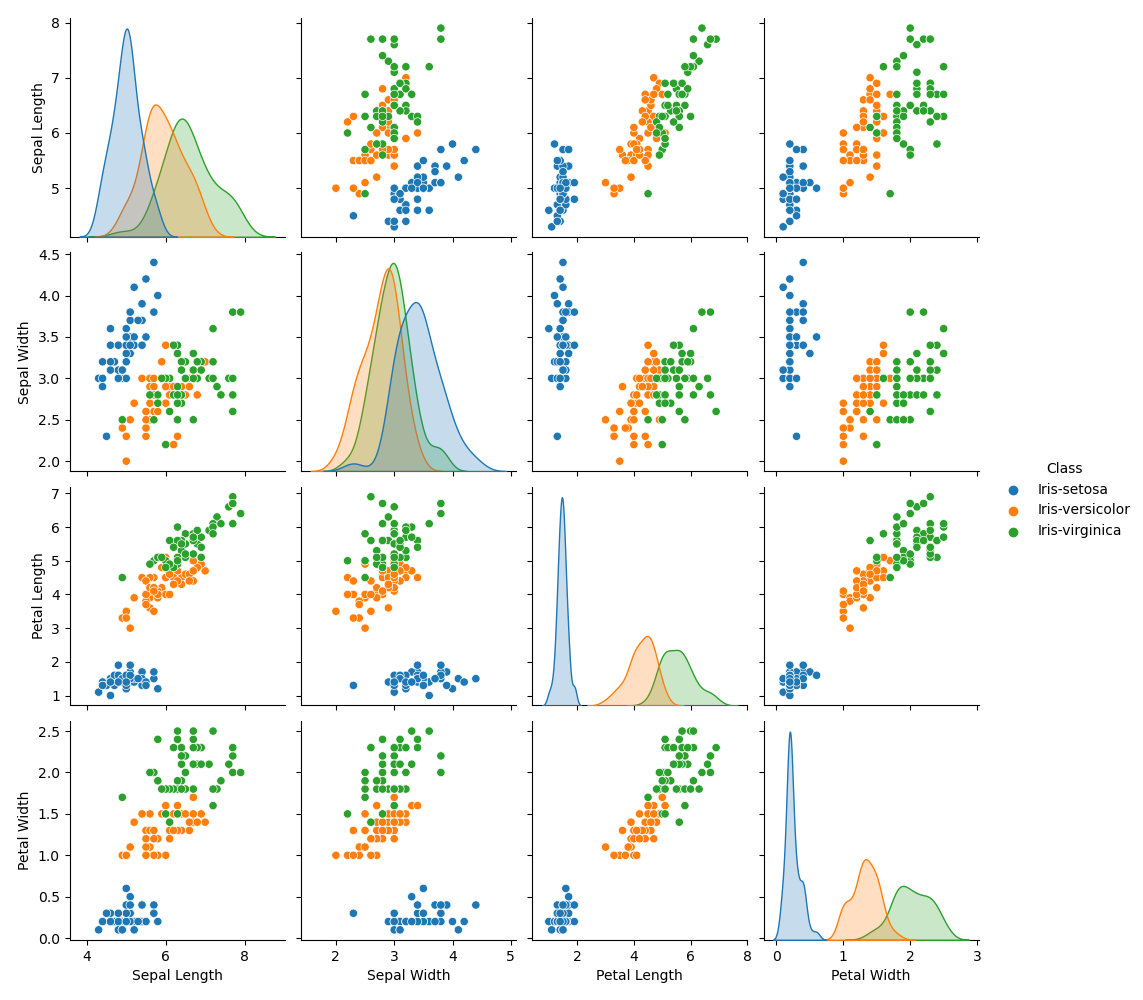
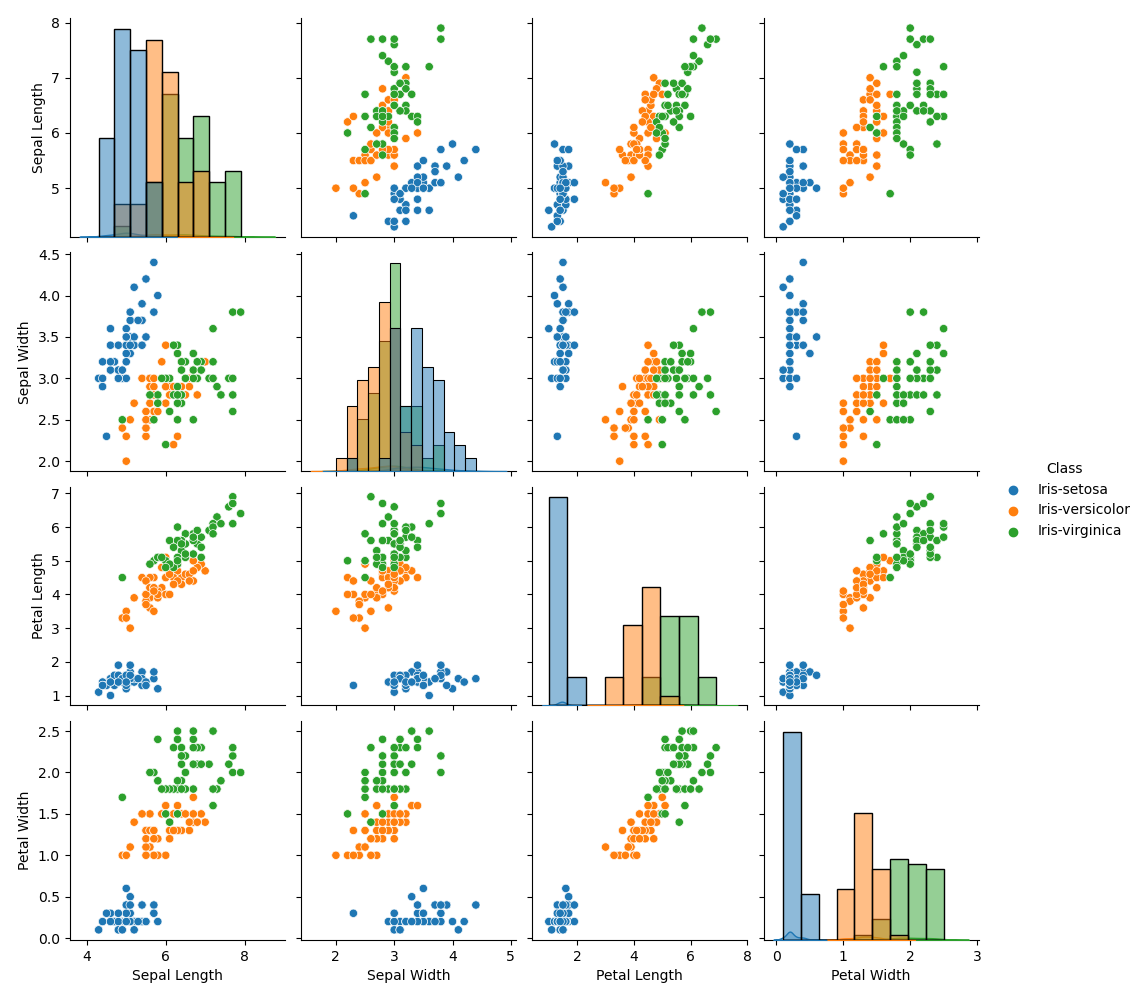
added references

diff --git a/analysis.py b/analysis.py
@@ -172,6 +172,8 @@ plt.show()
 
 # Pairplots comparing each variable to all others. 
 
-sns.pairplot(data, hue ='Class')
+pair = sns.pairplot(data, hue ='Class')
+pair.map_diag(sns.histplot)
+pair.map_offdiag(sns.scatterplot)
 plt.savefig('images/Pairplot.png')
 plt.show

diff --git a/README.md b/README.md
@@ -2,16 +2,19 @@
 
 ## **Table of Contents**
 
-1. Introduction to Dataset
-2. Project Outline
-3. Software Used
-4. Analysis
-    1. Univariate
-    2. Multivariate
+1. [Introduction to Dataset](heading1)
+2. [Project Outline](Head2)
+3. [Software Used](Head3)
+4. [Analysis](Head4)
+    1. [Univariate](Head4.1)
+    2. [Multivariate](Head4.2)
+5. [Results](Head5)
+6. [Technical Information](Head6)
+7. [Conclusion](Head7)
 
 
 
-## **Introduction to Dataset**
+## **Introduction to Dataset** {heading1}
 
 The Fischers Iris dataset was made by famous by statistician Ronald Fischer when he used it in his 1936 paper ["The use of multiple measurements in taxonomic problems"](https://onlinelibrary.wiley.com/doi/10.1111/j.1469-1809.1936.tb02137.x). However, it was actually compiled before this by Edgar Anderson, a botanist who was examining the variation within the Iris flower. 
 
@@ -19,12 +22,8 @@ The 1936 paper was proposing 'Fishers linear discriminant' which today is known 
 
 The dataset is hosted on the [UCI Machine Learning Repository](https://archive.ics.uci.edu/ml/datasets/iris). It consists of 3 classes of iris; 
 
-<img src="https://github.com/Kevin002023/pands-project/blob/main/images/Setosa.jpg" width="250" height="250" title="Iris-setosa">
--Iris-Setosa
-<img src="https://github.com/Kevin002023/pands-project/blob/main/images/Veriscolor.jpg" width="250" height="250" title="Iris-veriscolor">
--Iris-veriscolor
-<img src="https://github.com/Kevin002023/pands-project/blob/main/images/Virginica.jpg" width="250" height="250" title="Iris-virginica">
--Iris-virginica
+<img src="https://github.com/Kevin002023/pands-project/blob/main/images/iris-image.png" width="250" height="250">
+- The image above shows the 3 classes of iris in this data set.
 
 
 It is a multivariate dataset containing information on 150 specimens of iris. There are 5 attributes recorded for each specimen. [These are as follows](https://archive.ics.uci.edu/ml/datasets/iris) :
@@ -40,18 +39,18 @@ It is a multivariate dataset containing information on 150 specimens of iris. Th
 
 Fischer used this information to identify a method of distinguishing between the classes of iris's. It has since been used as a benchmark dataset for machine learning algorithms.
 
-## **Project Outline**
+## **Project Outline** {Head2}
 
 The purpose of the project was to research the Iris dataset, import it to python and write a program called 'analysis.py' that would be used to analyse the dataset. We were to produce plots of this analysis and output the results of any commands to a text file called 'project.txt'.
 
 The purpose of the analysis done by Fisher on this dataset was to see if he could distinguish the class of iris based on the metrics it contains or a combination thereof.  I would like to try and replicate this. 
 
-In order to achieve this, a univariate analysis was carried out, where a singular variable was looked at. This was done by producing plots to show the distribution and variance for Sepal and petal lengths and widths. The [Pandas documnetation](https://pandas.pydata.org/pandas-docs/version/0.13.1/visualization.html#targeting-different-subplots) was a great source of information on generating plots.
+In order to achieve this, a univariate analysis was carried out, where a singular variable was looked at. This was done by producing plots to show the distribution and variance for sepal and petal lengths and widths. The [Pandas documentation](https://pandas.pydata.org/pandas-docs/version/0.13.1/visualization.html#targeting-different-subplots) was a great source of information on generating plots.
 
-After this a multivariate analysis was performed, where the relationship between certain variables was looked at.
+After this a multivariate analysis was performed, where the relationship between certain variables was looked at. This was done using scatter-plots and a pair-plot. 
 
 
-## **Software Used**
+## **Software Used** {Head3}
 
 This project was done using python on Visual Studio Code. It was used to produce both the code and this README.md file.
 
@@ -69,14 +68,14 @@ import seaborn as sns
 
 Pandas allows you to manipulate the dataset as a dataframe. It was used to import the dataset, set up a dataframe, validate the values and then for aggregation and grouping of specific variables. I made extensive use of the Pandas documentation which can be found [here](https://pandas.pydata.org/pandas-docs/stable/getting_started/index.html)
 
-NumPy was used for mathematical operations adn when working with arrays/matrices. Its documentation can be found [here](https://numpy.org/doc/stable/)
+NumPy was used for mathematical operations and when working with arrays/matrices. Its documentation can be found [here](https://numpy.org/doc/stable/)
 
 Matplotlib is an extension of NumPy and was used to present the data in plots. Its documentation is [here](https://matplotlib.org/stable/index.html)
 
 Seaborn was also used in the visualization of the data. It has some extended functionality on Matplotlib when making plots. Seaborn documentation is [here](https://seaborn.pydata.org/)
 
 
-## **Analysis**
+## **Analysis** {Head4}
 
 The dataset was imported using the url and the pandas read_csv() function.  This was done so the code would work even with the dataset unattached to the repository. The dataset is called 'data' in my code hereafter. 
 
@@ -142,13 +141,13 @@ max        7.900000     4.400000      6.900000     2.500000
 The above commands were all added to 'project.txt' using the write() command. However, this command expects any input to be a string, whereas the head(), tail(), info() and describe() functions all generate dataframes. To counteract this they were converted to strings in the write command.  
 
 
-### Univariate Analysis
+### Univariate Analysis {Head4.1}
 
 Univariate Analysis where only one variable is looked at, at a time. This was done for Sepal Length, Sepal Width, Petal Length and Petal Width.
 
 **Histogram**
 
-A Histogram is a visual representation of the distribution of values. The range of values are grouped into a series of intervals called 'bins' and the frequency of each value inside these bins is then plotted on the graph. The number of bins can greatly impact the effectiveness of the histogram. If we have too few, there will be a lack of detail making it difficult to identify any pattern, too many and the distribution will look rough and there will be too much "noise". ["Sturges Rule"](https://www.statology.org/sturges-rule/) is a method of identifying the optimal number of bins to use. 
+A Histogram is a visual representation of the distribution of values. The range of values are grouped into a series of intervals called 'bins' and the frequency of each value inside these bins is then plotted on the graph. The number of bins can greatly impact the effectiveness of the histogram. If we have too few, there will be a lack of detail making it difficult to identify any pattern, too many and the distribution will look rough and there will be too much "noise". There are multiple different ways of calculating the correct number of bins. In this case ["Sturges Rule"](https://www.statology.org/sturges-rule/) was used. 
 
 ``
 Optimal Bins = ⌈log2n + 1⌉
@@ -165,13 +164,13 @@ By creating an array called ``axs``, each variable could have its own subplot on
 
 A ['normal distribution'](https://www.techtarget.com/whatis/definition/normal-distribution#:~:text=What%20is%20normal%20distribution%3F,the%20mean%20of%20the%20distribution.) of values will have a bell curve. 
 
--Sepal length: Has a unimodal distribution (ie, a singular peak). While it isn't strictly symmetrical, it can be considered normal distribution with a slight skew to the right.
+- Sepal length: Has a unimodal distribution (ie, a singular peak). While it isn't strictly symmetrical, it can be considered normal distribution with a slight skew to the right.
 
--Sepal Width: This also has a unimodal distribution and the classical bell shape you would expect from a normal distribution.
+- Sepal Width: This also has a unimodal distribution and the classical bell shape you would expect from a normal distribution.
 
--Petal Length: This has a bimodal (two peaks) distribution and skews towards the right.
+- Petal Length: This has a bimodal (two peaks) distribution and skews towards the right.
 
--Petal Width: Again this has a bimodal distribution and skews to the right. 
+- Petal Width: Again this has a bimodal distribution and skews to the right. 
 
 Histograms were also produced for each variable separated by class. 
 
@@ -181,12 +180,12 @@ A [boxplot](https://pandas.pydata.org/pandas-docs/version/0.25.3/reference/api/p
 
 Again for ease of comparison each variant was a subplot allowing all 4 on the same image. 
 
-![Boxplot](images\Boxplots.png)
+![Boxplot](https://github.com/Kevin002023/pands-project/blob/main/images/Boxplots.png)
 
-For both sepal length and width there is much overlap in the range of values for all 3 classes. It would be very difficult to identity what class an iris belonged to based on either of these two variables. However,; it is immediately noticeable that this is not the case when comparing Petal length and width. While there is an overlap in the values for Iris-versicolor and Iris-virginica, the size of the petals for Iris-setosa are significantly smaller. In addition, Iris-setosa has a much narrower range of values. 
+For both sepal length and width there is much overlap in the range of values for all 3 classes. It would be very difficult to identity what class an iris belonged to based on either of these two variables. However, it is immediately noticeable that this is not the case when comparing Petal length and width. While there is an overlap in the values for Iris-versicolor and Iris-virginica, the size of the petals for Iris-setosa are significantly smaller. In addition, Iris-setosa has a much narrower range of values. 
 
 
-## Mutlivariate Analysis
+## Multivariate Analysis {Head4.2}
 
 Multivariate analysis is where 2 or more variable are examined at once to try and identify a relationship between them. 
 
@@ -206,37 +205,89 @@ Here, it can be seen again a division between Iris-Setosa and the other two clas
 
 ## Pair Plots
 
-A [pair-plot](https://datagy.io/seaborn-pairplot/) is another method of looking at the relationship of two variables. They compare each variable to every other variable. 
+A [pair-plot](https://datagy.io/seaborn-pairplot/) is another method of looking at the relationship of two variables. They compare each variable to every other variable.
 
-!["PairPlot"]()
+![PairPlot](https://github.com/Kevin002023/pands-project/blob/main/images/Pairplot.png)
 
-## Technical Information
+The diagonal line shows the distribution of values in each variable by using a histogram. The other plots all represent one variable plotted with another.  Each point is also coloured based on its classification. 
+
+Using the above scatter-plots and pair plot, we can see that there is a positive linear relationship between petal length and petal width. There is a roughly straight line with a positive slope indicating a positive linear relationship. If there was a straight line with a negative slope it would indicate a negative linear relationship. 
+
+The other variables do not seem to have any linear relationship between each other. It is notable that Iris-setosa shares little overlap between the other two classes. 
+
+## **Conclusion** {Head5}
+
+I can already conclude that it seems that there is no relationship between the sepal length and sepal width and probably petal length and width have the strongest linear relationship.
+
+## **Technical Information** {Head5}
 
 Language
 Python 3.09.13
 
+Modules Used
+- Pandas
+- Matplotlib
+- NumPy
+- Seaborn
 
+Editor
+Visual Studio Code V 1.75.1
 As there will be multiple graphs, I wanted to save them all to same folder "graphs". I did this by using the relative path within the 'fig.savefig' (command)[https://stackoverflow.com/questions/66583370/matplotlib-plot-image-save-path-python-vs-code]
 
-Boxplots
-https://pythonbasics.org/seaborn-boxplot/
-https://proclusacademy.com/blog/quicktip/boxplot-separate-yaxis/
 
-Making the labels bold = https://www.includehelp.com/python/bold-text-label-in-plot.aspx#:~:text=The%20command%20fontweight%3D'bold,or%20label%20in%20figure%20bold.
+## **References** {Head6}
 
 
-Multivariate analysis = looks at a number for different variables and the relationship between them.
-- scatter pltos
+- “Pandas documentation — pandas 2.0.1 documentation,” Pydata.org. [Online]. Available: https://pandas.pydata.org/pandas-docs/stable/index.html. 
 
-ScatterPlot
+- “NumPy documentation — NumPy v1.24 manual,” Numpy.org. [Online]. Available: https://numpy.org/doc/stable/.
 
-I wanted to create a scatterplot of "Sepal Length" vs "Sepal Width", distinguishing the classes by colour and then to the same for "Petal Length vs Petal Width". I founds this (website)[https://datagy.io/pandas-scatter-plot/] a great resourse for this. 
+- “Matplotlib documentation — Matplotlib 3.7.1 documentation,” Matplotlib.org. [Online]. Available: https://matplotlib.org/stable/index.html. 
 
-In order to distinguish the Class by colour I created 3 different Dataframes, one for each class, assigned them a unique colour and then plotted them on the same scatterplot graph. 
+- “Seaborn: Statistical data visualization — seaborn 0.12.2 documentation,” Pydata.org. [Online]. Available: https://seaborn.pydata.org/. 
 
+- Sauravdeb, “Introduction to Machine learning: Iris dataset,” Medium, 02-Oct-2021. [Online]. Available: https://medium.com/@sauravdeb98/introduction-to-machine-learning-iris-dataset-58f2f30f966e. 
 
-###Results
+- “Statistical analysis on IRIS dataset,” Kaggle.com, 22-May-2022. [Online]. Available: https://www.kaggle.com/code/neha99/statistical-analysis-on-iris-dataset. 
 
-The 
+- “Iris-data-analysis.knit,” Amazonaws.com. [Online]. Available: https://rstudio-pubs-static.s3.amazonaws.com/848706_1fdca2c961d54f1e9909fe64e127095a.html.
 
-I can already conclude that it seems that there is no relationship between the sepal length and sepal width and probably petal length and width have the strongest linear relationship.
+- “Extended syntax,” Markdownguide.org. [Online]. Available: https://www.markdownguide.org/extended-syntax/.
+
+- “User guide and tutorial — seaborn 0.12.2 documentation,” Pydata.org. [Online]. Available: https://seaborn.pydata.org/tutorial.html. 
+
+- “Matplotlib tutorial,” W3schools.com. [Online]. Available: https://www.w3schools.com/python/matplotlib_intro.asp.
+
+- Nik, “Creating Pair Plots in Seaborn with sns pairplot,” datagy, 11-Jul-2022. [Online]. Available: https://datagy.io/seaborn-pairplot/. 
+
+- “How to add header row to a Pandas Dataframe?,” GeeksforGeeks, 25-Dec-2020. [Online]. Available: https://www.geeksforgeeks.org/how-to-add-header-row-to-a-pandas-dataframe/. 
+
+- “Plotting with matplotlib — pandas 0.13.1 documentation,” Pydata.org. [Online]. Available: https://pandas.pydata.org/pandas-docs/version/0.13.1/visualization.html.
+
+- “How to plot multiple dataframes in subplots,” Stack Overflow. [Online]. Available: https://stackoverflow.com/questions/22483588/how-to-plot-multiple-dataframes-in-subplots.
+
+- M. Pradhan, “Exploratory Data Analysis on Iris Dataset,” Tutorialspoint.com. [Online]. Available: https://www.tutorialspoint.com/exploratory-data-analysis-on-iris-dataset. 
+
+- “Matplotlib plot image save path python VS Code,” Stack Overflow. [Online]. Available: https://stackoverflow.com/questions/66583370/matplotlib-plot-image-save-path-python-vs-code. 
+
+- “Seaborn boxplot,” Pythonbasics.org. [Online]. Available: https://pythonbasics.org/seaborn-boxplot/.
+
+- Y. Singh, “Boxplot with separate Y-axis for each column,” Proclus Academy. [Online]. Available: https://proclusacademy.com/blog/quicktip/boxplot-separate-yaxis/. 
+
+- “Bold Text Label in Python Plot,” Includehelp.com. [Online]. Available: https://www.includehelp.com/python/bold-text-label-in-plot.aspx. 
+
+- [Online]. Available: http://ttps://datagy.io/pandas-scatter-plot/. 
+
+- Zach, “What is Sturges’ Rule? (definition & example),” Statology, 11-Jan-2021. [Online]. Available: https://www.statology.org/sturges-rule/.
+
+- Zach, “Seaborn: How to Use hue Parameter in Pairplot,” Statology, 16-Feb-2023. [Online]. Available: https://www.statology.org/seaborn-pairplot-hue/. 
+
+- D. S. W. Shen, “Linear Regression using Iris dataset — ‘hello, world!’ of machine learning,” Analytics Vidhya, 10-Mar-2020. [Online]. Available: https://medium.com/analytics-vidhya/linear-regression-using-iris-dataset-hello-world-of-machine-learning-b0feecac9cc1. 
+
+- “Reading and Writing to text files in Python,” GeeksforGeeks, 03-Apr-2017. [Online]. Available: https://www.geeksforgeeks.org/reading-writing-text-files-python/. 
+
+- Y. Singh, “How to read and write excel files using Pandas,” Proclus Academy. [Online]. Available: https://proclusacademy.com/blog/practical/pandas-read-write-excel-files/. 
+
+- N. Mukherjee, “First step to Statistics (with Iris data) - Analytics Vidhya - Medium,” Analytics Vidhya, 01-Jun-2020. [Online]. Available: https://medium.com/analytics-vidhya/first-step-to-statistics-with-iris-data-3d29c0820c5d. 
+
+- Nik, “Pandas Scatter Plot: How to make a Scatter Plot in Pandas,” datagy, 04-Mar-2022. [Online]. Available: https://datagy.io/pandas-scatter-plot/. 
